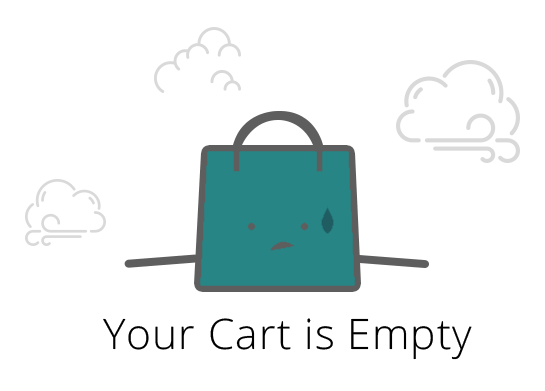
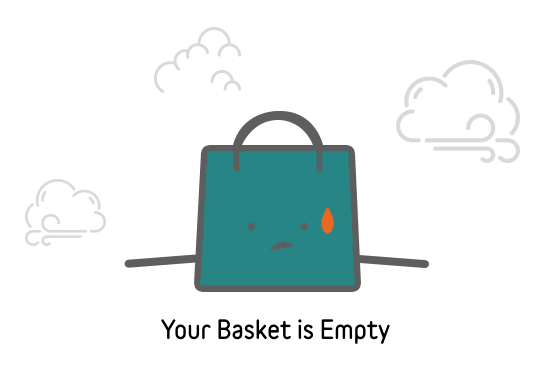
latest

Changed region(s): [[0.1872, 0.798, 0.8734, 0.9207], [0.5615, 0.5217, 0.6239, 0.6138]]

diff --git a/src/CartScreen.js b/src/CartScreen.js
@@ -22,25 +22,27 @@ class CartScreen extends React.Component {
       products: this.props.cart.products,
       total: this.props.cart.total.toFixed(2),
       vat: (this.props.cart.total * 0.15).toFixed(2),
-      grand: (this.props.cart.total + (this.props.cart.total * 0.15)).toFixed(2),
+      grand: (this.props.cart.total + this.props.cart.total * 0.15).toFixed(2),
     };
   }
 
   updateCart = (qty, name, price) => {
-    if(this.state.cart.products.length === 1) {
-      this.checkout();
+    if (this.state.cart.products.length === 1) {
+      this.clearCart();
       return;
     }
     const temp = this.state.cart.qty - qty;
     temp < 0 ? (this.state.cart.qty = 0) : (this.state.cart.qty = temp);
 
     let newProducts = [];
-    for(let i = 0; i < this.state.cart.products.length; i++) {
-      if(this.state.cart.products[i].name !== name) {
-        newProducts.push(this.state.cart.products[i])
+    for (let i = 0; i < this.state.cart.products.length; i++) {
+      if (this.state.cart.products[i].name !== name) {
+        newProducts.push(this.state.cart.products[i]);
       }
     }
-    const updatedTotal = this.state.cart.total - (parseFloat(price.replace(/[^0-9, ., ]/g, '').trim()) * qty);
+    const updatedTotal =
+      this.state.cart.total -
+      parseFloat(price.replace(/[^0-9, ., ]/g, '').trim()) * qty;
     this.state.cart.total = updatedTotal < 0 ? 0 : updatedTotal;
     this.state.cart.products = newProducts;
     this.setState({
@@ -51,14 +53,14 @@ class CartScreen extends React.Component {
     });
   };
 
-  checkout = () => {
+  clearCart = () => {
     this.props.cart.qty = 0;
     this.props.cart.indices = 0;
     this.props.cart.total = 0;
     this.props.cart.products = [];
-    this.setState({products: []})
-    this.forceUpdate()
-  }
+    this.setState({ products: [] });
+    this.forceUpdate();
+  };
 
   render() {
     // Get it from props
@@ -96,34 +98,58 @@ class CartScreen extends React.Component {
           showsHorizontalScrollIndicator={false}
         />
         <View style={{ padding: 20 }}>
-          <Text style={{color: '#278585', fontSize: 20}}>Order Summary</Text>
-          <Text stlye={{paddingLeft: 15, fontSize: 16, color: "#90A4AE"}}>Sub Total: {this.state.total}</Text>
-          <Text stlye={{paddingLeft: 15, fontSize: 16, color: "#90A4AE"}}>VAT (15%): {this.state.vat}</Text>
-          <Text stlye={{paddingLeft: 15, fontSize: 16, color: "#90A4AE"}}>Grand Total: {this.state.grand}</Text>
+          <Text style={{ color: '#278585', fontSize: 20 }}>Basket Summary</Text>
+          <Text stlye={{ paddingLeft: 15, fontSize: 16, color: '#90A4AE' }}>
+            Sub Total: {this.state.total}
+          </Text>
+          <Text stlye={{ paddingLeft: 15, fontSize: 16, color: '#90A4AE' }}>
+            VAT (15%): {this.state.vat}
+          </Text>
+          <Text stlye={{ paddingLeft: 15, fontSize: 16, color: '#90A4AE' }}>
+            Grand Total: {this.state.grand}
+          </Text>
         </View>
         <TouchableHighlight
-          style={{ width: '100%', backgroundColor: '#278585' }}
+          style={{
+            width: '100%',
+            height: 50,
+            backgroundColor: '#278585',
+            justifyContent: 'center',
+            alignItems: 'center',
+          }}
           underlayColor="#90A4AE"
           activeOpacity={0.6}
           onPress={() => {
-            Toast.show({
-              text1: 'Success',
-              text2: `We'll' deliver your order soon and with ❤.`,
-              visibilityTime: 2000,
-              position: 'bottom',
-              bottomOffset: 60,
-            });
-            this.checkout()
-            // navigation.navigate('CartView')
+            // Toast.show({
+            //   text1: 'Success',
+            //   text2: `We'll' deliver your order soon and with ❤.`,
+            //   visibilityTime: 2000,
+            //   position: 'bottom',
+            //   bottomOffset: 60,
+            // });
+            // this.clearCart();
+            navigation.navigate('COutView');
           }}
         >
-          <View style={{ padding: 5 }}>
+          <View
+            style={{ flexDirection: 'row', justifyContent: 'space-between' }}
+          >
             <Icon
-              name="credit-card"
+              name="address-card"
               type="font-awesome"
               color="#fff"
               size={30}
             />
+            <Text
+              style={{
+                color: '#fff',
+                fontSize: 22,
+                fontWeight: 'bold',
+                marginLeft: 20,
+              }}
+            >
+              Checkout
+            </Text>
           </View>
         </TouchableHighlight>
       </View>

diff --git a/src/ProductDescriptionPage.js b/src/ProductDescriptionPage.js
@@ -53,7 +53,7 @@ class ProductDescriptionPage extends React.Component {
     //     return tokenRes.data;
     //   })
     //   .catch(err => console.log);
-    const authToken = '84ya1mbclp9xcvjsi2ezdfuad9hv0ogg';
+    const authToken = 'h86u9r0tpsiz4luf4naqilvlbbmajxce';
 
     const { sku, imageUrl, key_url, manufacturer } = this.state;
     console.log('Authentication Token: ', authToken);
@@ -494,7 +494,7 @@ class ProductDescriptionPage extends React.Component {
                   />
                   <Text style={{ fontSize: 10, color: '#000' }}>
                     SAR{' '}
-                    <Text style={{ fontSize: 12, color: '#000' }}>3.85</Text>
+                    <Text style={{ fontSize: 12, color: '#278585' }}>3.85</Text>
                   </Text>
                   <Text style={{ fontSize: 14, color: '#000' }}>
                     Fevadol 500 mg
@@ -530,7 +530,7 @@ class ProductDescriptionPage extends React.Component {
                   />
                   <Text style={{ fontSize: 10, color: '#000' }}>
                     SAR{' '}
-                    <Text style={{ fontSize: 12, color: '#000' }}>10.7</Text>
+                    <Text style={{ fontSize: 12, color: '#278585' }}>10.7</Text>
                   </Text>
                   <Text style={{ fontSize: 14, color: '#000' }}>
                     Panadol Cold+Flu
@@ -565,7 +565,8 @@ class ProductDescriptionPage extends React.Component {
                     resizeMode={'contain'}
                   />
                   <Text style={{ fontSize: 10, color: '#000' }}>
-                    SAR <Text style={{ fontSize: 12, color: '#000' }}>22</Text>
+                    SAR{' '}
+                    <Text style={{ fontSize: 12, color: '#278585' }}>22</Text>
                   </Text>
                   <Text style={{ fontSize: 14, color: '#000' }}>
                     Dove Shower Gel
@@ -600,7 +601,8 @@ class ProductDescriptionPage extends React.Component {
                     resizeMode={'contain'}
                   />
                   <Text style={{ fontSize: 10, color: '#000' }}>
-                    SAR <Text style={{ fontSize: 12, color: '#000' }}>27</Text>
+                    SAR{' '}
+                    <Text style={{ fontSize: 12, color: '#278585' }}>27</Text>
                   </Text>
                   <Text style={{ fontSize: 14, color: '#000' }}>
                     Lightness Baby Tea

diff --git a/src/HomeScreen.js b/src/HomeScreen.js
@@ -162,7 +162,7 @@ class HomeScreen extends React.Component {
           >
             <Image
               source={require('../assets/images/PinkMobAr.jpg')}
-              style={{ width: 440, height: 100, borderRadius: 10 }}
+              style={{ width: '95%', height: 180, borderRadius: 10 }}
               resizeMode={'contain'}
             />
           </TouchableOpacity>
@@ -172,9 +172,10 @@ class HomeScreen extends React.Component {
             flexDirection: 'row',
             flexWrap: 'wrap',
             paddingTop: 70,
-            paddingLeft: 8,
-            justifyContent: 'space-between',
+            paddingLeft: 12,
+            justifyContent: 'space-evenly',
             alignItems: 'center',
+            width: '95%',
           }}
         >
           <TouchableOpacity

diff --git a/src/ProductCard.js b/src/ProductCard.js
@@ -120,7 +120,7 @@ class ProductCard extends Component {
           <View style={{ flex: 1, flexDirection: 'row', marginTop: 14 }}>
             <View style={{ width: 50, height: 50, marginTop: 3 }}>
               <Icon
-                name="arrow-down"
+                name="minus"
                 type="font-awesome"
                 color="#278585"
                 size={23}
@@ -143,7 +143,7 @@ class ProductCard extends Component {
             </View>
             <View style={{ width: 50, height: 50, marginTop: 3 }}>
               <Icon
-                name="arrow-up"
+                name="plus"
                 type="font-awesome"
                 color="#278585"
                 size={23}

diff --git a/App.js b/App.js
@@ -183,7 +183,7 @@ class App extends React.Component {
             name="CartView"
             component={CartView}
             options={({ route }) => ({
-              title: 'Shopping Cart',
+              title: 'Shopping Basket',
               headerTintColor: '#278585',
               headerTitleStyle: {},
               headerStyle: {

diff --git a/src/CheckOutScreen.js b/src/CheckOutScreen.js
@@ -1,4 +1,6 @@
 import React from 'react';
+import { Text } from 'react-native';
+import { useNavigation } from '@react-navigation/native';
 
 export const CheckOutScreen = () => {
   return <Text>Checkout plep!</Text>;
